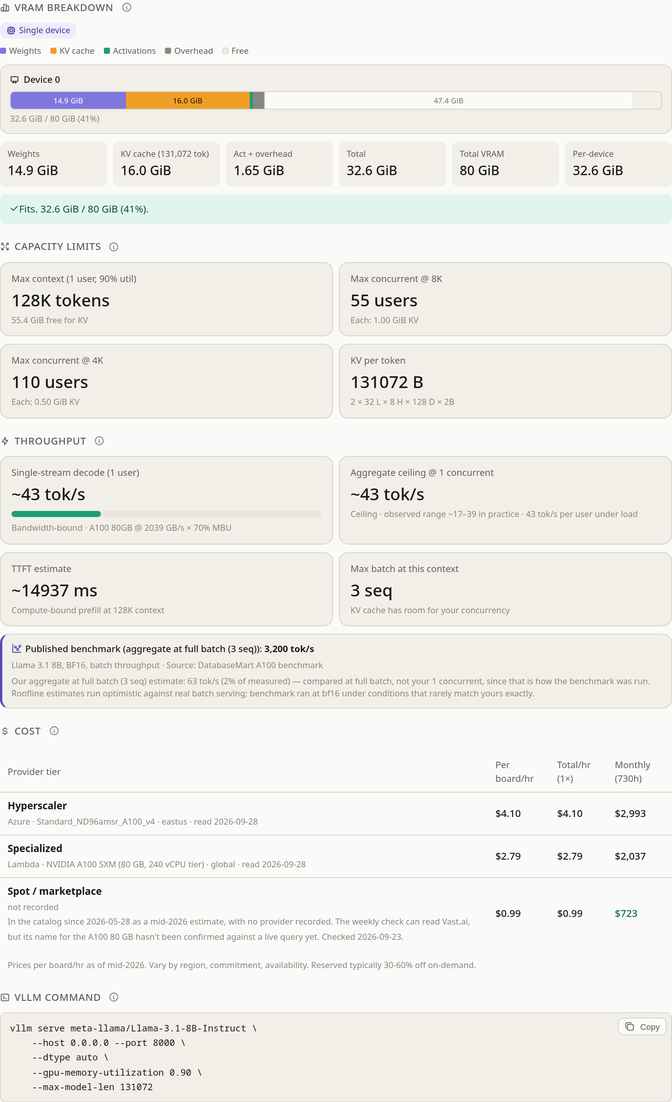
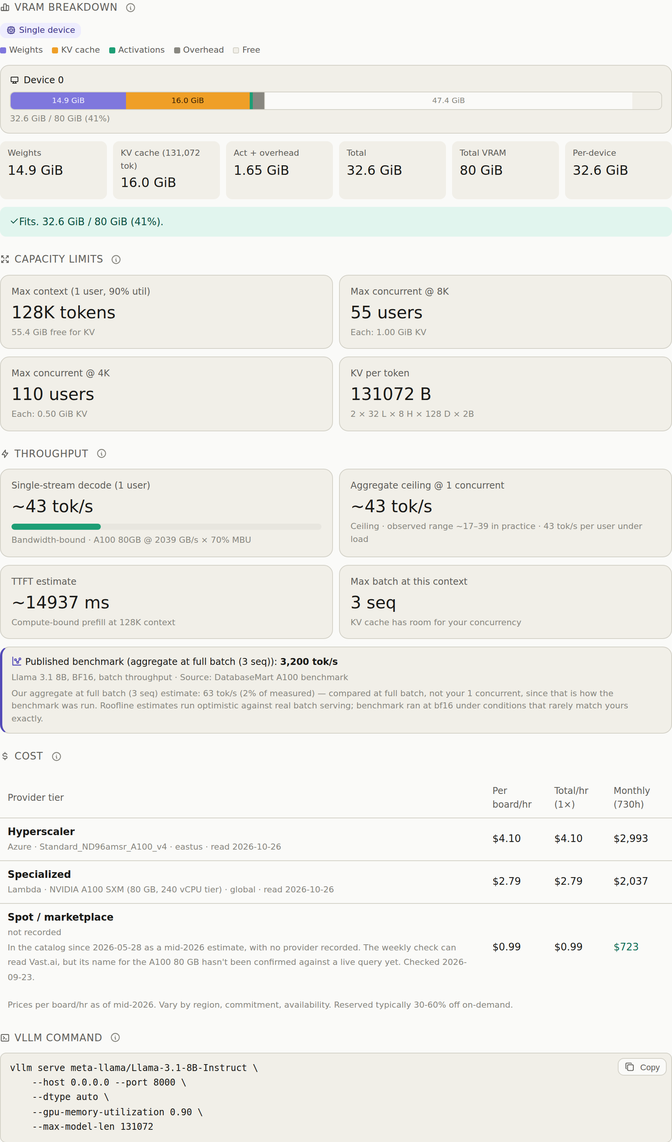
price-refresh: update catalog prices and provenance

diff --git a/index.html b/index.html
@@ -530,22 +530,22 @@ const MODEL_PRESETS = {
    ============================================================================= */
 /* GPU_TABLE:BEGIN — generated by tools/sync_data.py from data/gpus.json. Do not hand-edit; edit the JSON and re-run the script. */
 const GPU_TABLE = {
-  't4-16': { gb:16, bw:320, hyper:0.53, spec:0.35, spot:0.15, tflops:65, name:'T4 16 GB', vendor:'nvidia', perfKey:'nvidia', devices:1, form:'pcie', caps:{ fp8: false }, priceSource:{ hyper: { provider: 'aws', sku: 'g4dn.xlarge', region: 'US East (N. Virginia)', date: '2026-09-28', price: 0.53 } }, priceNote:{ spec: { reason: 'In the catalog since 2026-05-28 as a mid-2026 estimate, with no provider recorded. Lambda and CoreWeave, the specialized clouds the weekly check reads, don\'t list the T4.', checked: '2026-09-16' }, spot: { reason: 'In the catalog since 2026-05-28 as a mid-2026 estimate, with no provider recorded. The weekly check can read Vast.ai, but its name for the T4 hasn\'t been confirmed against a live query yet.', checked: '2026-09-23' } } },
-  'l4-24': { gb:24, bw:300, hyper:0.8, spec:0.43, spot:0.22, tflops:121, name:'L4 24 GB', vendor:'nvidia', perfKey:'nvidia', devices:1, form:'pcie', caps:{ fp8: true }, priceSource:{ hyper: { provider: 'aws', sku: 'g6.xlarge', region: 'US East (N. Virginia)', date: '2026-09-28', price: 0.8 } }, priceNote:{ spec: { reason: 'In the catalog since 2026-07-27 as a mid-2026 list price, with no provider recorded. Lambda and CoreWeave, the specialized clouds the weekly check reads, don\'t list the L4.', checked: '2026-09-16' }, spot: { reason: 'In the catalog since 2026-07-27 as a mid-2026 list price, with no provider recorded. The weekly check can read Vast.ai, but its name for the L4 hasn\'t been confirmed against a live query yet.', checked: '2026-09-23' } } },
-  'rtx4090-24': { gb:24, bw:1008, hyper:null, spec:0.45, spot:0.53, tflops:165, name:'RTX 4090 24 GB', vendor:'nvidia', perfKey:'nvidia', devices:1, form:'consumer', caps:{ fp8: true }, priceSource:{ spot: { provider: 'vast', sku: 'RTX 4090 (median of 46 verified offers)', region: 'global', date: '2026-09-28', price: 0.53 } }, priceNote:{ hyper: { reason: 'No hyperscaler rents this card: AWS, Azure, Google Cloud and Oracle list no offer for it.', checked: '2026-09-23' }, spec: { reason: 'In the catalog since 2026-05-28 as a mid-2026 estimate, with no provider recorded. Lambda and CoreWeave, the specialized clouds the weekly check reads, don\'t list the RTX 4090.', checked: '2026-09-16' } } },
+  't4-16': { gb:16, bw:320, hyper:0.53, spec:0.35, spot:0.15, tflops:65, name:'T4 16 GB', vendor:'nvidia', perfKey:'nvidia', devices:1, form:'pcie', caps:{ fp8: false }, priceSource:{ hyper: { provider: 'aws', sku: 'g4dn.xlarge', region: 'US East (N. Virginia)', date: '2026-10-26', price: 0.53 } }, priceNote:{ spec: { reason: 'In the catalog since 2026-05-28 as a mid-2026 estimate, with no provider recorded. Lambda and CoreWeave, the specialized clouds the weekly check reads, don\'t list the T4.', checked: '2026-09-16' }, spot: { reason: 'In the catalog since 2026-05-28 as a mid-2026 estimate, with no provider recorded. The weekly check can read Vast.ai, but its name for the T4 hasn\'t been confirmed against a live query yet.', checked: '2026-09-23' } } },
+  'l4-24': { gb:24, bw:300, hyper:0.8, spec:0.43, spot:0.22, tflops:121, name:'L4 24 GB', vendor:'nvidia', perfKey:'nvidia', devices:1, form:'pcie', caps:{ fp8: true }, priceSource:{ hyper: { provider: 'aws', sku: 'g6.xlarge', region: 'US East (N. Virginia)', date: '2026-10-26', price: 0.8 } }, priceNote:{ spec: { reason: 'In the catalog since 2026-07-27 as a mid-2026 list price, with no provider recorded. Lambda and CoreWeave, the specialized clouds the weekly check reads, don\'t list the L4.', checked: '2026-09-16' }, spot: { reason: 'In the catalog since 2026-07-27 as a mid-2026 list price, with no provider recorded. The weekly check can read Vast.ai, but its name for the L4 hasn\'t been confirmed against a live query yet.', checked: '2026-09-23' } } },
+  'rtx4090-24': { gb:24, bw:1008, hyper:null, spec:0.45, spot:0.56, tflops:165, name:'RTX 4090 24 GB', vendor:'nvidia', perfKey:'nvidia', devices:1, form:'consumer', caps:{ fp8: true }, priceSource:{ spot: { provider: 'vast', sku: 'RTX 4090 (median of 46 verified offers)', region: 'global', date: '2026-10-26', price: 0.56 } }, priceNote:{ hyper: { reason: 'No hyperscaler rents this card: AWS, Azure, Google Cloud and Oracle list no offer for it.', checked: '2026-09-23' }, spec: { reason: 'In the catalog since 2026-05-28 as a mid-2026 estimate, with no provider recorded. Lambda and CoreWeave, the specialized clouds the weekly check reads, don\'t list the RTX 4090.', checked: '2026-09-16' } } },
   'rtx5090-32': { gb:32, bw:1792, hyper:null, spec:0.65, spot:0.45, tflops:419, name:'RTX 5090 32 GB', vendor:'nvidia', perfKey:'nvidia', devices:1, form:'consumer', caps:{ fp8: true }, priceNote:{ hyper: { reason: 'No hyperscaler rents this card: AWS, Azure, Google Cloud and Oracle list no offer for it.', checked: '2026-09-23' }, spec: { reason: 'In the catalog since 2026-07-27 as a mid-2026 list price, with no provider recorded. Lambda and CoreWeave, the specialized clouds the weekly check reads, don\'t list the RTX 5090.', checked: '2026-09-16' }, spot: { reason: 'In the catalog since 2026-07-27 as a mid-2026 list price, with no provider recorded. The weekly check can read Vast.ai, but its name for the RTX 5090 hasn\'t been confirmed against a live query yet.', checked: '2026-09-23' } } },
-  'a100-40': { gb:40, bw:1555, hyper:3.4, spec:1.99, spot:0.63, tflops:312, name:'A100 40 GB', vendor:'nvidia', perfKey:'nvidia', devices:1, form:'sxm', caps:{ fp8: false }, default:true, priceSource:{ hyper: { provider: 'azure', sku: 'Standard_ND96asr_A100_v4', region: 'eastus', date: '2026-09-28', price: 3.4 }, spec: { provider: 'lambda', sku: 'NVIDIA A100 SXM (40 GB, 124 vCPU tier)', region: 'global', date: '2026-09-28', price: 1.99 } }, priceNote:{ spot: { reason: 'In the catalog since 2026-05-28 as a mid-2026 estimate, with no provider recorded. The weekly check can read Vast.ai, but its name for the A100 40 GB hasn\'t been confirmed against a live query yet.', checked: '2026-09-23' } } },
+  'a100-40': { gb:40, bw:1555, hyper:3.4, spec:1.99, spot:0.63, tflops:312, name:'A100 40 GB', vendor:'nvidia', perfKey:'nvidia', devices:1, form:'sxm', caps:{ fp8: false }, default:true, priceSource:{ hyper: { provider: 'azure', sku: 'Standard_ND96asr_A100_v4', region: 'eastus', date: '2026-09-28', price: 3.4 }, spec: { provider: 'lambda', sku: 'NVIDIA A100 SXM (40 GB, 124 vCPU tier)', region: 'global', date: '2026-10-26', price: 1.99 } }, priceNote:{ spot: { reason: 'In the catalog since 2026-05-28 as a mid-2026 estimate, with no provider recorded. The weekly check can read Vast.ai, but its name for the A100 40 GB hasn\'t been confirmed against a live query yet.', checked: '2026-09-23' } } },
   'rtx6000ada-48': { gb:48, bw:960, hyper:null, spec:0.9, spot:0.6, tflops:364, name:'RTX 6000 Ada 48 GB', vendor:'nvidia', perfKey:'nvidia', devices:1, form:'pcie', caps:{ fp8: true }, priceNote:{ hyper: { reason: 'No hyperscaler rents this card: AWS, Azure, Google Cloud and Oracle list no offer for it.', checked: '2026-09-23' }, spec: { reason: 'In the catalog since 2026-07-27 as a mid-2026 list price, with no provider recorded. Lambda\'s and CoreWeave\'s A6000 is the older Ampere RTX A6000, not this card.', checked: '2026-09-16' }, spot: { reason: 'In the catalog since 2026-07-27 as a mid-2026 list price, with no provider recorded. The weekly check can read Vast.ai, but its name for the RTX 6000 Ada hasn\'t been confirmed against a live query yet.', checked: '2026-09-23' } } },
-  'l40s-48': { gb:48, bw:864, hyper:1.86, spec:2.25, spot:0.9, tflops:362, name:'L40S 48 GB', vendor:'nvidia', perfKey:'nvidia', devices:1, form:'pcie', caps:{ fp8: true }, priceSource:{ hyper: { provider: 'aws', sku: 'g6e.xlarge', region: 'US East (N. Virginia)', date: '2026-09-28', price: 1.86 }, spec: { provider: 'coreweave', sku: 'NVIDIA L40S', region: 'global', date: '2026-09-28', price: 2.25 } }, priceNote:{ spot: { reason: 'In the catalog since 2026-05-28 as a mid-2026 estimate, with no provider recorded. The weekly check can read Vast.ai, but its name for the L40S hasn\'t been confirmed against a live query yet.', checked: '2026-09-23' } } },
-  'a100-80': { gb:80, bw:2039, hyper:4.1, spec:2.79, spot:0.99, tflops:312, name:'A100 80 GB', vendor:'nvidia', perfKey:'nvidia', devices:1, form:'sxm', caps:{ fp8: false }, priceSource:{ hyper: { provider: 'azure', sku: 'Standard_ND96amsr_A100_v4', region: 'eastus', date: '2026-09-28', price: 4.1 }, spec: { provider: 'lambda', sku: 'NVIDIA A100 SXM (80 GB, 240 vCPU tier)', region: 'global', date: '2026-09-28', price: 2.79 } }, priceNote:{ spot: { reason: 'In the catalog since 2026-05-28 as a mid-2026 estimate, with no provider recorded. The weekly check can read Vast.ai, but its name for the A100 80 GB hasn\'t been confirmed against a live query yet.', checked: '2026-09-23' } } },
+  'l40s-48': { gb:48, bw:864, hyper:1.86, spec:2.25, spot:0.9, tflops:362, name:'L40S 48 GB', vendor:'nvidia', perfKey:'nvidia', devices:1, form:'pcie', caps:{ fp8: true }, priceSource:{ hyper: { provider: 'aws', sku: 'g6e.xlarge', region: 'US East (N. Virginia)', date: '2026-10-26', price: 1.86 }, spec: { provider: 'coreweave', sku: 'NVIDIA L40S', region: 'global', date: '2026-10-26', price: 2.25 } }, priceNote:{ spot: { reason: 'In the catalog since 2026-05-28 as a mid-2026 estimate, with no provider recorded. The weekly check can read Vast.ai, but its name for the L40S hasn\'t been confirmed against a live query yet.', checked: '2026-09-23' } } },
+  'a100-80': { gb:80, bw:2039, hyper:4.1, spec:2.79, spot:0.99, tflops:312, name:'A100 80 GB', vendor:'nvidia', perfKey:'nvidia', devices:1, form:'sxm', caps:{ fp8: false }, priceSource:{ hyper: { provider: 'azure', sku: 'Standard_ND96amsr_A100_v4', region: 'eastus', date: '2026-10-26', price: 4.1 }, spec: { provider: 'lambda', sku: 'NVIDIA A100 SXM (80 GB, 240 vCPU tier)', region: 'global', date: '2026-10-26', price: 2.79 } }, priceNote:{ spot: { reason: 'In the catalog since 2026-05-28 as a mid-2026 estimate, with no provider recorded. The weekly check can read Vast.ai, but its name for the A100 80 GB hasn\'t been confirmed against a live query yet.', checked: '2026-09-23' } } },
   'h100-80': { gb:80, bw:3352, hyper:12.3, spec:3.99, spot:2.25, tflops:990, name:'H100 80 GB', vendor:'nvidia', perfKey:'nvidia', devices:1, form:'sxm', caps:{ fp8: true }, priceSource:{ hyper: { provider: 'azure', sku: 'Standard_ND96isr_H100_v5', region: 'eastus', date: '2026-09-22', price: 12.29 }, spec: { provider: 'lambda', sku: 'NVIDIA H100 SXM (80 GB, 208 vCPU tier)', region: 'global', date: '2026-09-22', price: 3.99 } }, priceNote:{ spot: { reason: 'In the catalog since 2026-05-28 as a mid-2026 estimate, with no provider recorded. Spot prices vary, and recent reads came back up to 44% higher: the weekly Vast.ai reads of a single H100 SXM\'s asking price were 42.5% higher on 2026-09-22 and 44.0% higher on 2026-09-28, while interruptible and hyperscaler spot prices read on 2026-09-28 sat closer to this figure. It stays at this estimate until a later check.', checked: '2026-09-29' } } },
-  'rtxpro-96': { gb:96, bw:1792, hyper:3.36, spec:2.5, spot:2.0, tflops:504, name:'RTX PRO 6000 96 GB', vendor:'nvidia', perfKey:'nvidia', devices:1, form:'pcie', caps:{ fp8: true }, priceSource:{ spec: { provider: 'coreweave', sku: 'NVIDIA RTX PRO 6000 Blackwell Server Edition (High Memory)', region: 'global', date: '2026-09-28', price: 2.5 }, hyper: { provider: 'aws', sku: 'g7e.2xlarge', region: 'US East (N. Virginia)', date: '2026-09-28', price: 3.36 } }, priceNote:{ spot: { reason: 'In the catalog since 2026-05-28 as a mid-2026 estimate, with no provider recorded. The weekly check can read Vast.ai, but its name for the RTX PRO 6000 hasn\'t been confirmed against a live query yet.', checked: '2026-09-23' } } },
-  'h200-141': { gb:141, bw:4800, hyper:7.91, spec:6.31, spot:2.5, tflops:990, name:'H200 141 GB', vendor:'nvidia', perfKey:'nvidia', devices:1, form:'sxm', caps:{ fp8: true }, priceSource:{ hyper: { provider: 'aws', sku: 'p5en.48xlarge', region: 'US East (N. Virginia)', date: '2026-09-28', price: 7.91 }, spec: { provider: 'coreweave', sku: 'NVIDIA HGX H200', region: 'global', date: '2026-09-28', price: 6.31 } }, priceNote:{ spot: { reason: 'In the catalog since 2026-07-27 as a mid-2026 list price, with no provider recorded. The weekly check can read Vast.ai, but its name for the H200 hasn\'t been confirmed against a live query yet.', checked: '2026-09-23' } } },
-  'b200-192': { gb:192, bw:8000, hyper:14.24, spec:6.69, spot:2.12, tflops:2250, name:'B200 192 GB', vendor:'nvidia', perfKey:'nvidia', devices:1, form:'sxm', caps:{ fp8: true }, priceSource:{ hyper: { provider: 'aws', sku: 'p6-b200.48xlarge', region: 'US East (N. Virginia)', date: '2026-09-28', price: 14.24 }, spec: { provider: 'lambda', sku: 'NVIDIA B200 SXM6 (180 GB, 208 vCPU tier)', region: 'global', date: '2026-09-22', price: 6.69 } }, priceNote:{ spot: { reason: 'In the catalog since 2026-05-28 as a mid-2026 estimate, with no provider recorded. The weekly check can read Vast.ai, but its name for the B200 hasn\'t been confirmed against a live query yet.', checked: '2026-09-23' } } },
+  'rtxpro-96': { gb:96, bw:1792, hyper:3.36, spec:2.5, spot:2.0, tflops:504, name:'RTX PRO 6000 96 GB', vendor:'nvidia', perfKey:'nvidia', devices:1, form:'pcie', caps:{ fp8: true }, priceSource:{ spec: { provider: 'coreweave', sku: 'NVIDIA RTX PRO 6000 Blackwell Server Edition (High Memory)', region: 'global', date: '2026-10-26', price: 2.5 }, hyper: { provider: 'aws', sku: 'g7e.2xlarge', region: 'US East (N. Virginia)', date: '2026-10-26', price: 3.36 } }, priceNote:{ spot: { reason: 'In the catalog since 2026-05-28 as a mid-2026 estimate, with no provider recorded. The weekly check can read Vast.ai, but its name for the RTX PRO 6000 hasn\'t been confirmed against a live query yet.', checked: '2026-09-23' } } },
+  'h200-141': { gb:141, bw:4800, hyper:7.91, spec:6.31, spot:2.5, tflops:990, name:'H200 141 GB', vendor:'nvidia', perfKey:'nvidia', devices:1, form:'sxm', caps:{ fp8: true }, priceSource:{ hyper: { provider: 'aws', sku: 'p5en.48xlarge', region: 'US East (N. Virginia)', date: '2026-10-26', price: 7.91 }, spec: { provider: 'coreweave', sku: 'NVIDIA HGX H200', region: 'global', date: '2026-10-26', price: 6.31 } }, priceNote:{ spot: { reason: 'In the catalog since 2026-07-27 as a mid-2026 list price, with no provider recorded. The weekly check can read Vast.ai, but its name for the H200 hasn\'t been confirmed against a live query yet.', checked: '2026-09-23' } } },
+  'b200-192': { gb:192, bw:8000, hyper:14.24, spec:6.69, spot:2.12, tflops:2250, name:'B200 192 GB', vendor:'nvidia', perfKey:'nvidia', devices:1, form:'sxm', caps:{ fp8: true }, priceSource:{ hyper: { provider: 'aws', sku: 'p6-b200.48xlarge', region: 'US East (N. Virginia)', date: '2026-10-26', price: 14.24 }, spec: { provider: 'lambda', sku: 'NVIDIA B200 SXM6 (180 GB, 208 vCPU tier)', region: 'global', date: '2026-09-22', price: 6.69 } }, priceNote:{ spot: { reason: 'In the catalog since 2026-05-28 as a mid-2026 estimate, with no provider recorded. The weekly check can read Vast.ai, but its name for the B200 hasn\'t been confirmed against a live query yet.', checked: '2026-09-23' } } },
   'rx7900xtx-24': { gb:24, bw:960, hyper:null, spec:null, spot:null, tflops:123, name:'RX 7900 XTX 24 GB', vendor:'amd', perfKey:'rdna3', devices:1, form:'consumer', caps:{ fp8: false }, priceNote:{ hyper: { reason: 'No hyperscaler rents this card.', checked: '2026-09-23' }, spec: { reason: 'No hourly rate anywhere: HOSTKEY rents it only monthly, as a pre-order.', checked: '2026-09-23' }, spot: { reason: 'Vast.ai lists no RX 7900 XTX offers.', checked: '2026-09-23' } }, gfx:'gfx1100' },
   'mi210-64': { gb:64, bw:1638.4, hyper:null, spec:null, spot:null, tflops:181, name:'MI210 64 GB', vendor:'amd', perfKey:'cdna2', devices:1, form:'pcie', caps:{ fp8: false }, priceNote:{ hyper: { reason: 'No hyperscaler rents this card: it is missing from the Azure API, Oracle\'s price list, AWS and Google Cloud.', checked: '2026-09-23' }, spec: { reason: 'The one hourly rate found, Runcrate\'s, could not be confirmed; it is shown below as a lead.', checked: '2026-09-23' }, spot: { reason: 'No spot or marketplace offer found.', checked: '2026-09-23' } }, priceLead:{ spec: [{ provider: 'Runcrate', price: 0.82, url: 'https://www.runcrate.ai/pricing/gpu/mi210', date: '2026-09-23', why: 'Runcrate\'s own pricing page lists no AMD GPU, and the independent tracker checked lists no Runcrate AMD offer.', about: 'https://github.com/israelhen153/llm-vram-planner/blob/HEAD/docs/research/runcrate-due-diligence.md' }] }, gfx:'gfx90a' },
   'mi250x-128': { gb:128, bw:3276.8, hyper:null, spec:null, spot:null, tflops:383, name:'MI250X 128 GB', vendor:'amd', perfKey:'cdna2', devices:2, form:'oam', caps:{ fp8: false }, priceNote:{ hyper: { reason: 'No hyperscaler rents this card: it is missing from the Azure API, Oracle\'s price list, AWS and Google Cloud.', checked: '2026-09-23' }, spec: { reason: 'Cirrascale lists the MI250, not the MI250X, and only monthly. The one hourly rate found, Runcrate\'s, could not be confirmed; it is shown below as a lead.', checked: '2026-09-23' }, spot: { reason: 'No spot or marketplace offer found.', checked: '2026-09-23' } }, priceLead:{ spec: [{ provider: 'Runcrate', price: 1.35, url: 'https://www.runcrate.ai/pricing/gpu/mi250x', date: '2026-09-23', why: 'Runcrate\'s own pricing page lists no AMD GPU, and the independent tracker checked lists no Runcrate AMD offer.', about: 'https://github.com/israelhen153/llm-vram-planner/blob/HEAD/docs/research/runcrate-due-diligence.md' }] }, gfx:'gfx90a' },
-  'mi300x-192': { gb:192, bw:5325, hyper:6.0, spec:2.39, spot:1.11, tflops:1307.4, name:'MI300X 192 GB', vendor:'amd', perfKey:'cdna3', devices:1, form:'oam', caps:{ fp8: true }, priceSource:{ hyper: { provider: 'azure', sku: 'Standard_ND96isr_MI300X_v5', region: 'eastus2', date: '2026-09-28', price: 6.0 }, spot: { provider: 'azure', sku: 'Standard_ND96isr_MI300X_v5 (Spot)', region: 'eastus2', date: '2026-09-28', price: 1.11 } }, priceRecord:{ spec: { provider: 'RunPod', sku: 'MI300X (Secure Cloud)', region: 'global', date: '2026-09-23', price: 2.39, url: 'https://www.runpod.io/gpu-models/mi300x' } }, gfx:'gfx942' },
+  'mi300x-192': { gb:192, bw:5325, hyper:6.0, spec:2.39, spot:1.11, tflops:1307.4, name:'MI300X 192 GB', vendor:'amd', perfKey:'cdna3', devices:1, form:'oam', caps:{ fp8: true }, priceSource:{ hyper: { provider: 'azure', sku: 'Standard_ND96isr_MI300X_v5', region: 'eastus2', date: '2026-10-26', price: 6.0 }, spot: { provider: 'azure', sku: 'Standard_ND96isr_MI300X_v5 (Spot)', region: 'eastus2', date: '2026-10-26', price: 1.11 } }, priceRecord:{ spec: { provider: 'RunPod', sku: 'MI300X (Secure Cloud)', region: 'global', date: '2026-09-23', price: 2.39, url: 'https://www.runpod.io/gpu-models/mi300x' } }, gfx:'gfx942' },
   'mi325x-256': { gb:256, bw:6000, hyper:null, spec:3.8, spot:null, tflops:1307.4, name:'MI325X 256 GB', vendor:'amd', perfKey:'cdna3', devices:1, form:'oam', caps:{ fp8: true }, priceRecord:{ spec: { provider: 'DigitalOcean', sku: 'AMD Instinct™ MI325X', region: 'global', date: '2026-09-23', price: 3.8, url: 'https://www.digitalocean.com/pricing/gpu-droplets' } }, priceNote:{ hyper: { reason: 'No hyperscaler rents this card: it is missing from the Azure API, Oracle\'s price list, AWS and Google Cloud.', checked: '2026-09-23' }, spot: { reason: 'Vultr lists a preemptible plan, but no location offers it; its rate is shown below as a lead.', checked: '2026-09-23' } }, priceLead:{ spot: [{ provider: 'Vultr', price: 2.0, url: 'https://api.vultr.com/v2/plans-metal', date: '2026-09-23', why: 'It is the preemptible rate of an 8-GPU bare-metal plan that Vultr\'s API lists with no location offering it.' }] }, gfx:'gfx942' },
 };
 /* GPU_TABLE:END */

diff --git a/generate_report.py b/generate_report.py
@@ -84,22 +84,22 @@ GIB = 1024 ** 3
 
 # GPU_TABLE:BEGIN — generated by tools/sync_data.py from data/gpus.json. Do not hand-edit; edit the JSON and re-run the script.
 GPUS = {
-    "t4-16": {"gb":16,"bw":320,"hyper":0.53,"spec":0.35,"spot":0.15,"tflops":65,"name":"T4 16 GB","vendor":"nvidia","perfKey":"nvidia","devices":1,"form":"pcie","caps":{"fp8": False},"priceSource":{"hyper": {"provider": "aws", "sku": "g4dn.xlarge", "region": "US East (N. Virginia)", "date": "2026-09-28", "price": 0.53}},"priceNote":{"spec": {"reason": "In the catalog since 2026-05-28 as a mid-2026 estimate, with no provider recorded. Lambda and CoreWeave, the specialized clouds the weekly check reads, don't list the T4.", "checked": "2026-09-16"}, "spot": {"reason": "In the catalog since 2026-05-28 as a mid-2026 estimate, with no provider recorded. The weekly check can read Vast.ai, but its name for the T4 hasn't been confirmed against a live query yet.", "checked": "2026-09-23"}}},
-    "l4-24": {"gb":24,"bw":300,"hyper":0.8,"spec":0.43,"spot":0.22,"tflops":121,"name":"L4 24 GB","vendor":"nvidia","perfKey":"nvidia","devices":1,"form":"pcie","caps":{"fp8": True},"priceSource":{"hyper": {"provider": "aws", "sku": "g6.xlarge", "region": "US East (N. Virginia)", "date": "2026-09-28", "price": 0.8}},"priceNote":{"spec": {"reason": "In the catalog since 2026-07-27 as a mid-2026 list price, with no provider recorded. Lambda and CoreWeave, the specialized clouds the weekly check reads, don't list the L4.", "checked": "2026-09-16"}, "spot": {"reason": "In the catalog since 2026-07-27 as a mid-2026 list price, with no provider recorded. The weekly check can read Vast.ai, but its name for the L4 hasn't been confirmed against a live query yet.", "checked": "2026-09-23"}}},
-    "rtx4090-24": {"gb":24,"bw":1008,"hyper":None,"spec":0.45,"spot":0.53,"tflops":165,"name":"RTX 4090 24 GB","vendor":"nvidia","perfKey":"nvidia","devices":1,"form":"consumer","caps":{"fp8": True},"priceSource":{"spot": {"provider": "vast", "sku": "RTX 4090 (median of 46 verified offers)", "region": "global", "date": "2026-09-28", "price": 0.53}},"priceNote":{"hyper": {"reason": "No hyperscaler rents this card: AWS, Azure, Google Cloud and Oracle list no offer for it.", "checked": "2026-09-23"}, "spec": {"reason": "In the catalog since 2026-05-28 as a mid-2026 estimate, with no provider recorded. Lambda and CoreWeave, the specialized clouds the weekly check reads, don't list the RTX 4090.", "checked": "2026-09-16"}}},
+    "t4-16": {"gb":16,"bw":320,"hyper":0.53,"spec":0.35,"spot":0.15,"tflops":65,"name":"T4 16 GB","vendor":"nvidia","perfKey":"nvidia","devices":1,"form":"pcie","caps":{"fp8": False},"priceSource":{"hyper": {"provider": "aws", "sku": "g4dn.xlarge", "region": "US East (N. Virginia)", "date": "2026-10-26", "price": 0.53}},"priceNote":{"spec": {"reason": "In the catalog since 2026-05-28 as a mid-2026 estimate, with no provider recorded. Lambda and CoreWeave, the specialized clouds the weekly check reads, don't list the T4.", "checked": "2026-09-16"}, "spot": {"reason": "In the catalog since 2026-05-28 as a mid-2026 estimate, with no provider recorded. The weekly check can read Vast.ai, but its name for the T4 hasn't been confirmed against a live query yet.", "checked": "2026-09-23"}}},
+    "l4-24": {"gb":24,"bw":300,"hyper":0.8,"spec":0.43,"spot":0.22,"tflops":121,"name":"L4 24 GB","vendor":"nvidia","perfKey":"nvidia","devices":1,"form":"pcie","caps":{"fp8": True},"priceSource":{"hyper": {"provider": "aws", "sku": "g6.xlarge", "region": "US East (N. Virginia)", "date": "2026-10-26", "price": 0.8}},"priceNote":{"spec": {"reason": "In the catalog since 2026-07-27 as a mid-2026 list price, with no provider recorded. Lambda and CoreWeave, the specialized clouds the weekly check reads, don't list the L4.", "checked": "2026-09-16"}, "spot": {"reason": "In the catalog since 2026-07-27 as a mid-2026 list price, with no provider recorded. The weekly check can read Vast.ai, but its name for the L4 hasn't been confirmed against a live query yet.", "checked": "2026-09-23"}}},
+    "rtx4090-24": {"gb":24,"bw":1008,"hyper":None,"spec":0.45,"spot":0.56,"tflops":165,"name":"RTX 4090 24 GB","vendor":"nvidia","perfKey":"nvidia","devices":1,"form":"consumer","caps":{"fp8": True},"priceSource":{"spot": {"provider": "vast", "sku": "RTX 4090 (median of 46 verified offers)", "region": "global", "date": "2026-10-26", "price": 0.56}},"priceNote":{"hyper": {"reason": "No hyperscaler rents this card: AWS, Azure, Google Cloud and Oracle list no offer for it.", "checked": "2026-09-23"}, "spec": {"reason": "In the catalog since 2026-05-28 as a mid-2026 estimate, with no provider recorded. Lambda and CoreWeave, the specialized clouds the weekly check reads, don't list the RTX 4090.", "checked": "2026-09-16"}}},
     "rtx5090-32": {"gb":32,"bw":1792,"hyper":None,"spec":0.65,"spot":0.45,"tflops":419,"name":"RTX 5090 32 GB","vendor":"nvidia","perfKey":"nvidia","devices":1,"form":"consumer","caps":{"fp8": True},"priceNote":{"hyper": {"reason": "No hyperscaler rents this card: AWS, Azure, Google Cloud and Oracle list no offer for it.", "checked": "2026-09-23"}, "spec": {"reason": "In the catalog since 2026-07-27 as a mid-2026 list price, with no provider recorded. Lambda and CoreWeave, the specialized clouds the weekly check reads, don't list the RTX 5090.", "checked": "2026-09-16"}, "spot": {"reason": "In the catalog since 2026-07-27 as a mid-2026 list price, with no provider recorded. The weekly check can read Vast.ai, but its name for the RTX 5090 hasn't been confirmed against a live query yet.", "checked": "2026-09-23"}}},
-    "a100-40": {"gb":40,"bw":1555,"hyper":3.4,"spec":1.99,"spot":0.63,"tflops":312,"name":"A100 40 GB","vendor":"nvidia","perfKey":"nvidia","devices":1,"form":"sxm","caps":{"fp8": False},"default":True,"priceSource":{"hyper": {"provider": "azure", "sku": "Standard_ND96asr_A100_v4", "region": "eastus", "date": "2026-09-28", "price": 3.4}, "spec": {"provider": "lambda", "sku": "NVIDIA A100 SXM (40 GB, 124 vCPU tier)", "region": "global", "date": "2026-09-28", "price": 1.99}},"priceNote":{"spot": {"reason": "In the catalog since 2026-05-28 as a mid-2026 estimate, with no provider recorded. The weekly check can read Vast.ai, but its name for the A100 40 GB hasn't been confirmed against a live query yet.", "checked": "2026-09-23"}}},
+    "a100-40": {"gb":40,"bw":1555,"hyper":3.4,"spec":1.99,"spot":0.63,"tflops":312,"name":"A100 40 GB","vendor":"nvidia","perfKey":"nvidia","devices":1,"form":"sxm","caps":{"fp8": False},"default":True,"priceSource":{"hyper": {"provider": "azure", "sku": "Standard_ND96asr_A100_v4", "region": "eastus", "date": "2026-09-28", "price": 3.4}, "spec": {"provider": "lambda", "sku": "NVIDIA A100 SXM (40 GB, 124 vCPU tier)", "region": "global", "date": "2026-10-26", "price": 1.99}},"priceNote":{"spot": {"reason": "In the catalog since 2026-05-28 as a mid-2026 estimate, with no provider recorded. The weekly check can read Vast.ai, but its name for the A100 40 GB hasn't been confirmed against a live query yet.", "checked": "2026-09-23"}}},
     "rtx6000ada-48": {"gb":48,"bw":960,"hyper":None,"spec":0.9,"spot":0.6,"tflops":364,"name":"RTX 6000 Ada 48 GB","vendor":"nvidia","perfKey":"nvidia","devices":1,"form":"pcie","caps":{"fp8": True},"priceNote":{"hyper": {"reason": "No hyperscaler rents this card: AWS, Azure, Google Cloud and Oracle list no offer for it.", "checked": "2026-09-23"}, "spec": {"reason": "In the catalog since 2026-07-27 as a mid-2026 list price, with no provider recorded. Lambda's and CoreWeave's A6000 is the older Ampere RTX A6000, not this card.", "checked": "2026-09-16"}, "spot": {"reason": "In the catalog since 2026-07-27 as a mid-2026 list price, with no provider recorded. The weekly check can read Vast.ai, but its name for the RTX 6000 Ada hasn't been confirmed against a live query yet.", "checked": "2026-09-23"}}},
-    "l40s-48": {"gb":48,"bw":864,"hyper":1.86,"spec":2.25,"spot":0.9,"tflops":362,"name":"L40S 48 GB","vendor":"nvidia","perfKey":"nvidia","devices":1,"form":"pcie","caps":{"fp8": True},"priceSource":{"hyper": {"provider": "aws", "sku": "g6e.xlarge", "region": "US East (N. Virginia)", "date": "2026-09-28", "price": 1.86}, "spec": {"provider": "coreweave", "sku": "NVIDIA L40S", "region": "global", "date": "2026-09-28", "price": 2.25}},"priceNote":{"spot": {"reason": "In the catalog since 2026-05-28 as a mid-2026 estimate, with no provider recorded. The weekly check can read Vast.ai, but its name for the L40S hasn't been confirmed against a live query yet.", "checked": "2026-09-23"}}},
-    "a100-80": {"gb":80,"bw":2039,"hyper":4.1,"spec":2.79,"spot":0.99,"tflops":312,"name":"A100 80 GB","vendor":"nvidia","perfKey":"nvidia","devices":1,"form":"sxm","caps":{"fp8": False},"priceSource":{"hyper": {"provider": "azure", "sku": "Standard_ND96amsr_A100_v4", "region": "eastus", "date": "2026-09-28", "price": 4.1}, "spec": {"provider": "lambda", "sku": "NVIDIA A100 SXM (80 GB, 240 vCPU tier)", "region": "global", "date": "2026-09-28", "price": 2.79}},"priceNote":{"spot": {"reason": "In the catalog since 2026-05-28 as a mid-2026 estimate, with no provider recorded. The weekly check can read Vast.ai, but its name for the A100 80 GB hasn't been confirmed against a live query yet.", "checked": "2026-09-23"}}},
+    "l40s-48": {"gb":48,"bw":864,"hyper":1.86,"spec":2.25,"spot":0.9,"tflops":362,"name":"L40S 48 GB","vendor":"nvidia","perfKey":"nvidia","devices":1,"form":"pcie","caps":{"fp8": True},"priceSource":{"hyper": {"provider": "aws", "sku": "g6e.xlarge", "region": "US East (N. Virginia)", "date": "2026-10-26", "price": 1.86}, "spec": {"provider": "coreweave", "sku": "NVIDIA L40S", "region": "global", "date": "2026-10-26", "price": 2.25}},"priceNote":{"spot": {"reason": "In the catalog since 2026-05-28 as a mid-2026 estimate, with no provider recorded. The weekly check can read Vast.ai, but its name for the L40S hasn't been confirmed against a live query yet.", "checked": "2026-09-23"}}},
+    "a100-80": {"gb":80,"bw":2039,"hyper":4.1,"spec":2.79,"spot":0.99,"tflops":312,"name":"A100 80 GB","vendor":"nvidia","perfKey":"nvidia","devices":1,"form":"sxm","caps":{"fp8": False},"priceSource":{"hyper": {"provider": "azure", "sku": "Standard_ND96amsr_A100_v4", "region": "eastus", "date": "2026-10-26", "price": 4.1}, "spec": {"provider": "lambda", "sku": "NVIDIA A100 SXM (80 GB, 240 vCPU tier)", "region": "global", "date": "2026-10-26", "price": 2.79}},"priceNote":{"spot": {"reason": "In the catalog since 2026-05-28 as a mid-2026 estimate, with no provider recorded. The weekly check can read Vast.ai, but its name for the A100 80 GB hasn't been confirmed against a live query yet.", "checked": "2026-09-23"}}},
     "h100-80": {"gb":80,"bw":3352,"hyper":12.3,"spec":3.99,"spot":2.25,"tflops":990,"name":"H100 80 GB","vendor":"nvidia","perfKey":"nvidia","devices":1,"form":"sxm","caps":{"fp8": True},"priceSource":{"hyper": {"provider": "azure", "sku": "Standard_ND96isr_H100_v5", "region": "eastus", "date": "2026-09-22", "price": 12.29}, "spec": {"provider": "lambda", "sku": "NVIDIA H100 SXM (80 GB, 208 vCPU tier)", "region": "global", "date": "2026-09-22", "price": 3.99}},"priceNote":{"spot": {"reason": "In the catalog since 2026-05-28 as a mid-2026 estimate, with no provider recorded. Spot prices vary, and recent reads came back up to 44% higher: the weekly Vast.ai reads of a single H100 SXM's asking price were 42.5% higher on 2026-09-22 and 44.0% higher on 2026-09-28, while interruptible and hyperscaler spot prices read on 2026-09-28 sat closer to this figure. It stays at this estimate until a later check.", "checked": "2026-09-29"}}},
-    "rtxpro-96": {"gb":96,"bw":1792,"hyper":3.36,"spec":2.5,"spot":2.0,"tflops":504,"name":"RTX PRO 6000 96 GB","vendor":"nvidia","perfKey":"nvidia","devices":1,"form":"pcie","caps":{"fp8": True},"priceSource":{"spec": {"provider": "coreweave", "sku": "NVIDIA RTX PRO 6000 Blackwell Server Edition (High Memory)", "region": "global", "date": "2026-09-28", "price": 2.5}, "hyper": {"provider": "aws", "sku": "g7e.2xlarge", "region": "US East (N. Virginia)", "date": "2026-09-28", "price": 3.36}},"priceNote":{"spot": {"reason": "In the catalog since 2026-05-28 as a mid-2026 estimate, with no provider recorded. The weekly check can read Vast.ai, but its name for the RTX PRO 6000 hasn't been confirmed against a live query yet.", "checked": "2026-09-23"}}},
-    "h200-141": {"gb":141,"bw":4800,"hyper":7.91,"spec":6.31,"spot":2.5,"tflops":990,"name":"H200 141 GB","vendor":"nvidia","perfKey":"nvidia","devices":1,"form":"sxm","caps":{"fp8": True},"priceSource":{"hyper": {"provider": "aws", "sku": "p5en.48xlarge", "region": "US East (N. Virginia)", "date": "2026-09-28", "price": 7.91}, "spec": {"provider": "coreweave", "sku": "NVIDIA HGX H200", "region": "global", "date": "2026-09-28", "price": 6.31}},"priceNote":{"spot": {"reason": "In the catalog since 2026-07-27 as a mid-2026 list price, with no provider recorded. The weekly check can read Vast.ai, but its name for the H200 hasn't been confirmed against a live query yet.", "checked": "2026-09-23"}}},
-    "b200-192": {"gb":192,"bw":8000,"hyper":14.24,"spec":6.69,"spot":2.12,"tflops":2250,"name":"B200 192 GB","vendor":"nvidia","perfKey":"nvidia","devices":1,"form":"sxm","caps":{"fp8": True},"priceSource":{"hyper": {"provider": "aws", "sku": "p6-b200.48xlarge", "region": "US East (N. Virginia)", "date": "2026-09-28", "price": 14.24}, "spec": {"provider": "lambda", "sku": "NVIDIA B200 SXM6 (180 GB, 208 vCPU tier)", "region": "global", "date": "2026-09-22", "price": 6.69}},"priceNote":{"spot": {"reason": "In the catalog since 2026-05-28 as a mid-2026 estimate, with no provider recorded. The weekly check can read Vast.ai, but its name for the B200 hasn't been confirmed against a live query yet.", "checked": "2026-09-23"}}},
+    "rtxpro-96": {"gb":96,"bw":1792,"hyper":3.36,"spec":2.5,"spot":2.0,"tflops":504,"name":"RTX PRO 6000 96 GB","vendor":"nvidia","perfKey":"nvidia","devices":1,"form":"pcie","caps":{"fp8": True},"priceSource":{"spec": {"provider": "coreweave", "sku": "NVIDIA RTX PRO 6000 Blackwell Server Edition (High Memory)", "region": "global", "date": "2026-10-26", "price": 2.5}, "hyper": {"provider": "aws", "sku": "g7e.2xlarge", "region": "US East (N. Virginia)", "date": "2026-10-26", "price": 3.36}},"priceNote":{"spot": {"reason": "In the catalog since 2026-05-28 as a mid-2026 estimate, with no provider recorded. The weekly check can read Vast.ai, but its name for the RTX PRO 6000 hasn't been confirmed against a live query yet.", "checked": "2026-09-23"}}},
+    "h200-141": {"gb":141,"bw":4800,"hyper":7.91,"spec":6.31,"spot":2.5,"tflops":990,"name":"H200 141 GB","vendor":"nvidia","perfKey":"nvidia","devices":1,"form":"sxm","caps":{"fp8": True},"priceSource":{"hyper": {"provider": "aws", "sku": "p5en.48xlarge", "region": "US East (N. Virginia)", "date": "2026-10-26", "price": 7.91}, "spec": {"provider": "coreweave", "sku": "NVIDIA HGX H200", "region": "global", "date": "2026-10-26", "price": 6.31}},"priceNote":{"spot": {"reason": "In the catalog since 2026-07-27 as a mid-2026 list price, with no provider recorded. The weekly check can read Vast.ai, but its name for the H200 hasn't been confirmed against a live query yet.", "checked": "2026-09-23"}}},
+    "b200-192": {"gb":192,"bw":8000,"hyper":14.24,"spec":6.69,"spot":2.12,"tflops":2250,"name":"B200 192 GB","vendor":"nvidia","perfKey":"nvidia","devices":1,"form":"sxm","caps":{"fp8": True},"priceSource":{"hyper": {"provider": "aws", "sku": "p6-b200.48xlarge", "region": "US East (N. Virginia)", "date": "2026-10-26", "price": 14.24}, "spec": {"provider": "lambda", "sku": "NVIDIA B200 SXM6 (180 GB, 208 vCPU tier)", "region": "global", "date": "2026-09-22", "price": 6.69}},"priceNote":{"spot": {"reason": "In the catalog since 2026-05-28 as a mid-2026 estimate, with no provider recorded. The weekly check can read Vast.ai, but its name for the B200 hasn't been confirmed against a live query yet.", "checked": "2026-09-23"}}},
     "rx7900xtx-24": {"gb":24,"bw":960,"hyper":None,"spec":None,"spot":None,"tflops":123,"name":"RX 7900 XTX 24 GB","vendor":"amd","perfKey":"rdna3","devices":1,"form":"consumer","caps":{"fp8": False},"priceNote":{"hyper": {"reason": "No hyperscaler rents this card.", "checked": "2026-09-23"}, "spec": {"reason": "No hourly rate anywhere: HOSTKEY rents it only monthly, as a pre-order.", "checked": "2026-09-23"}, "spot": {"reason": "Vast.ai lists no RX 7900 XTX offers.", "checked": "2026-09-23"}},"gfx":"gfx1100"},
     "mi210-64": {"gb":64,"bw":1638.4,"hyper":None,"spec":None,"spot":None,"tflops":181,"name":"MI210 64 GB","vendor":"amd","perfKey":"cdna2","devices":1,"form":"pcie","caps":{"fp8": False},"priceNote":{"hyper": {"reason": "No hyperscaler rents this card: it is missing from the Azure API, Oracle's price list, AWS and Google Cloud.", "checked": "2026-09-23"}, "spec": {"reason": "The one hourly rate found, Runcrate's, could not be confirmed; it is shown below as a lead.", "checked": "2026-09-23"}, "spot": {"reason": "No spot or marketplace offer found.", "checked": "2026-09-23"}},"priceLead":{"spec": [{"provider": "Runcrate", "price": 0.82, "url": "https://www.runcrate.ai/pricing/gpu/mi210", "date": "2026-09-23", "why": "Runcrate's own pricing page lists no AMD GPU, and the independent tracker checked lists no Runcrate AMD offer.", "about": "https://github.com/israelhen153/llm-vram-planner/blob/HEAD/docs/research/runcrate-due-diligence.md"}]},"gfx":"gfx90a"},
     "mi250x-128": {"gb":128,"bw":3276.8,"hyper":None,"spec":None,"spot":None,"tflops":383,"name":"MI250X 128 GB","vendor":"amd","perfKey":"cdna2","devices":2,"form":"oam","caps":{"fp8": False},"priceNote":{"hyper": {"reason": "No hyperscaler rents this card: it is missing from the Azure API, Oracle's price list, AWS and Google Cloud.", "checked": "2026-09-23"}, "spec": {"reason": "Cirrascale lists the MI250, not the MI250X, and only monthly. The one hourly rate found, Runcrate's, could not be confirmed; it is shown below as a lead.", "checked": "2026-09-23"}, "spot": {"reason": "No spot or marketplace offer found.", "checked": "2026-09-23"}},"priceLead":{"spec": [{"provider": "Runcrate", "price": 1.35, "url": "https://www.runcrate.ai/pricing/gpu/mi250x", "date": "2026-09-23", "why": "Runcrate's own pricing page lists no AMD GPU, and the independent tracker checked lists no Runcrate AMD offer.", "about": "https://github.com/israelhen153/llm-vram-planner/blob/HEAD/docs/research/runcrate-due-diligence.md"}]},"gfx":"gfx90a"},
-    "mi300x-192": {"gb":192,"bw":5325,"hyper":6.0,"spec":2.39,"spot":1.11,"tflops":1307.4,"name":"MI300X 192 GB","vendor":"amd","perfKey":"cdna3","devices":1,"form":"oam","caps":{"fp8": True},"priceSource":{"hyper": {"provider": "azure", "sku": "Standard_ND96isr_MI300X_v5", "region": "eastus2", "date": "2026-09-28", "price": 6.0}, "spot": {"provider": "azure", "sku": "Standard_ND96isr_MI300X_v5 (Spot)", "region": "eastus2", "date": "2026-09-28", "price": 1.11}},"priceRecord":{"spec": {"provider": "RunPod", "sku": "MI300X (Secure Cloud)", "region": "global", "date": "2026-09-23", "price": 2.39, "url": "https://www.runpod.io/gpu-models/mi300x"}},"gfx":"gfx942"},
+    "mi300x-192": {"gb":192,"bw":5325,"hyper":6.0,"spec":2.39,"spot":1.11,"tflops":1307.4,"name":"MI300X 192 GB","vendor":"amd","perfKey":"cdna3","devices":1,"form":"oam","caps":{"fp8": True},"priceSource":{"hyper": {"provider": "azure", "sku": "Standard_ND96isr_MI300X_v5", "region": "eastus2", "date": "2026-10-26", "price": 6.0}, "spot": {"provider": "azure", "sku": "Standard_ND96isr_MI300X_v5 (Spot)", "region": "eastus2", "date": "2026-10-26", "price": 1.11}},"priceRecord":{"spec": {"provider": "RunPod", "sku": "MI300X (Secure Cloud)", "region": "global", "date": "2026-09-23", "price": 2.39, "url": "https://www.runpod.io/gpu-models/mi300x"}},"gfx":"gfx942"},
     "mi325x-256": {"gb":256,"bw":6000,"hyper":None,"spec":3.8,"spot":None,"tflops":1307.4,"name":"MI325X 256 GB","vendor":"amd","perfKey":"cdna3","devices":1,"form":"oam","caps":{"fp8": True},"priceRecord":{"spec": {"provider": "DigitalOcean", "sku": "AMD Instinct\u2122 MI325X", "region": "global", "date": "2026-09-23", "price": 3.8, "url": "https://www.digitalocean.com/pricing/gpu-droplets"}},"priceNote":{"hyper": {"reason": "No hyperscaler rents this card: it is missing from the Azure API, Oracle's price list, AWS and Google Cloud.", "checked": "2026-09-23"}, "spot": {"reason": "Vultr lists a preemptible plan, but no location offers it; its rate is shown below as a lead.", "checked": "2026-09-23"}},"priceLead":{"spot": [{"provider": "Vultr", "price": 2.0, "url": "https://api.vultr.com/v2/plans-metal", "date": "2026-09-23", "why": "It is the preemptible rate of an 8-GPU bare-metal plan that Vultr's API lists with no location offering it."}]},"gfx":"gfx942"},
 }
 # GPU_TABLE:END
